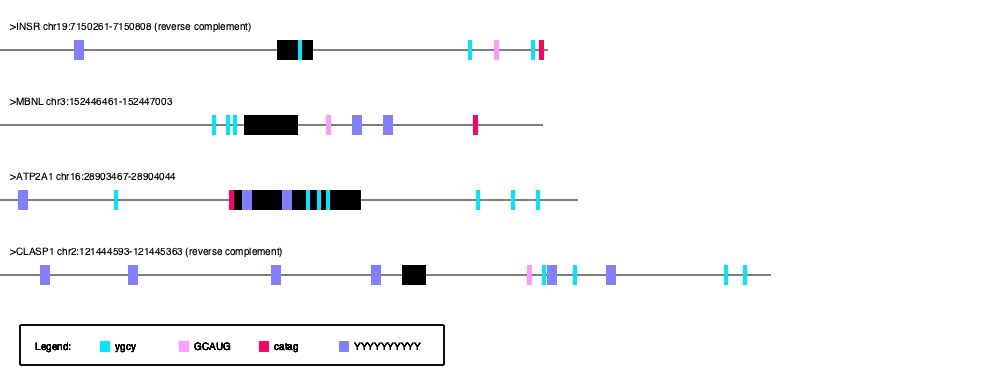
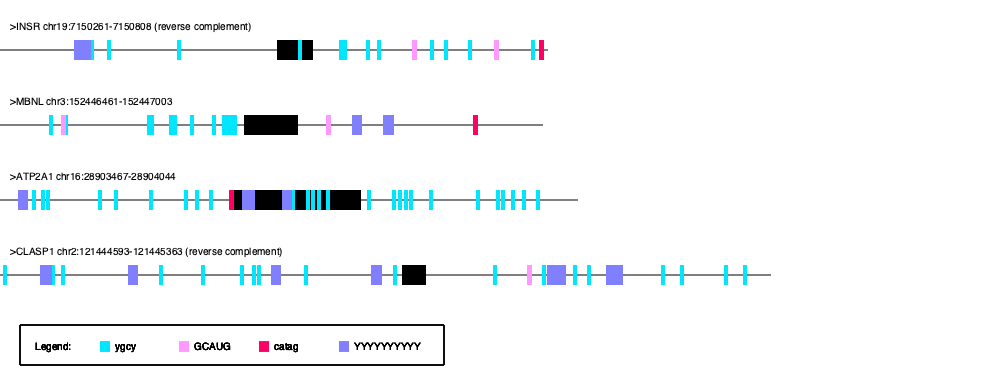
ACTUALLY can handle overlapping motifs now

diff --git a/motif-mark-oop.py b/motif-mark-oop.py
@@ -79,6 +79,7 @@ def draw_figure(motifs,fastas, file_name):
         for motifseq in motifs: ## loop through the motifs from the text file
             ##motif_dict[seq]:(start,end,color)
             motif_dict = motifseq.find_motif(fastaseq.fasta)
+            #print(motif_dict)
             for motif,integers in motif_dict.items():
                 color1= motif_dict[motif][2][0]
                 color2= motif_dict[motif][2][1]
@@ -149,14 +150,14 @@ class Motif:
     def find_motif(self, fasta): 
         '''fasta is the gene sequence, returns dictionary of the regex used: end, start, color'''
         regex = self.ambiguous_motif #get the regex to look for all the options in case of degenerate bases
-        #print(regex)
         color = self.color #get the color since they're shared across the degenerate options
         motif_dict = dict()
         match = str()
-        for match in re.finditer(rf"{regex}", str(fasta)): 
-            if match != None:
-                motif_dict[match.group()]=(match.end(),match.start(), color)
-                #print(match.start(),match.end())
+        w = 0
+        for overlapping in re.findall(f'(?=({regex}))', str(fasta)):
+            for match in re.finditer(f"{overlapping}", str(fasta)):
+                motif_dict[(match.group(),w)]=(match.end(),match.start(), color)
+                w +=1
         return  motif_dict
 
 
@@ -238,8 +239,6 @@ def classify(oneline,motif_file):
 oneline = oneline_fasta(fasta_file, file_name) #makes the oneline file
 fastas,motifs = classify(oneline,args.motifs) #returns a list of classes.
 draw_figure(motifs,fastas,file_name) # draws the figure
-
-
 
 
 
